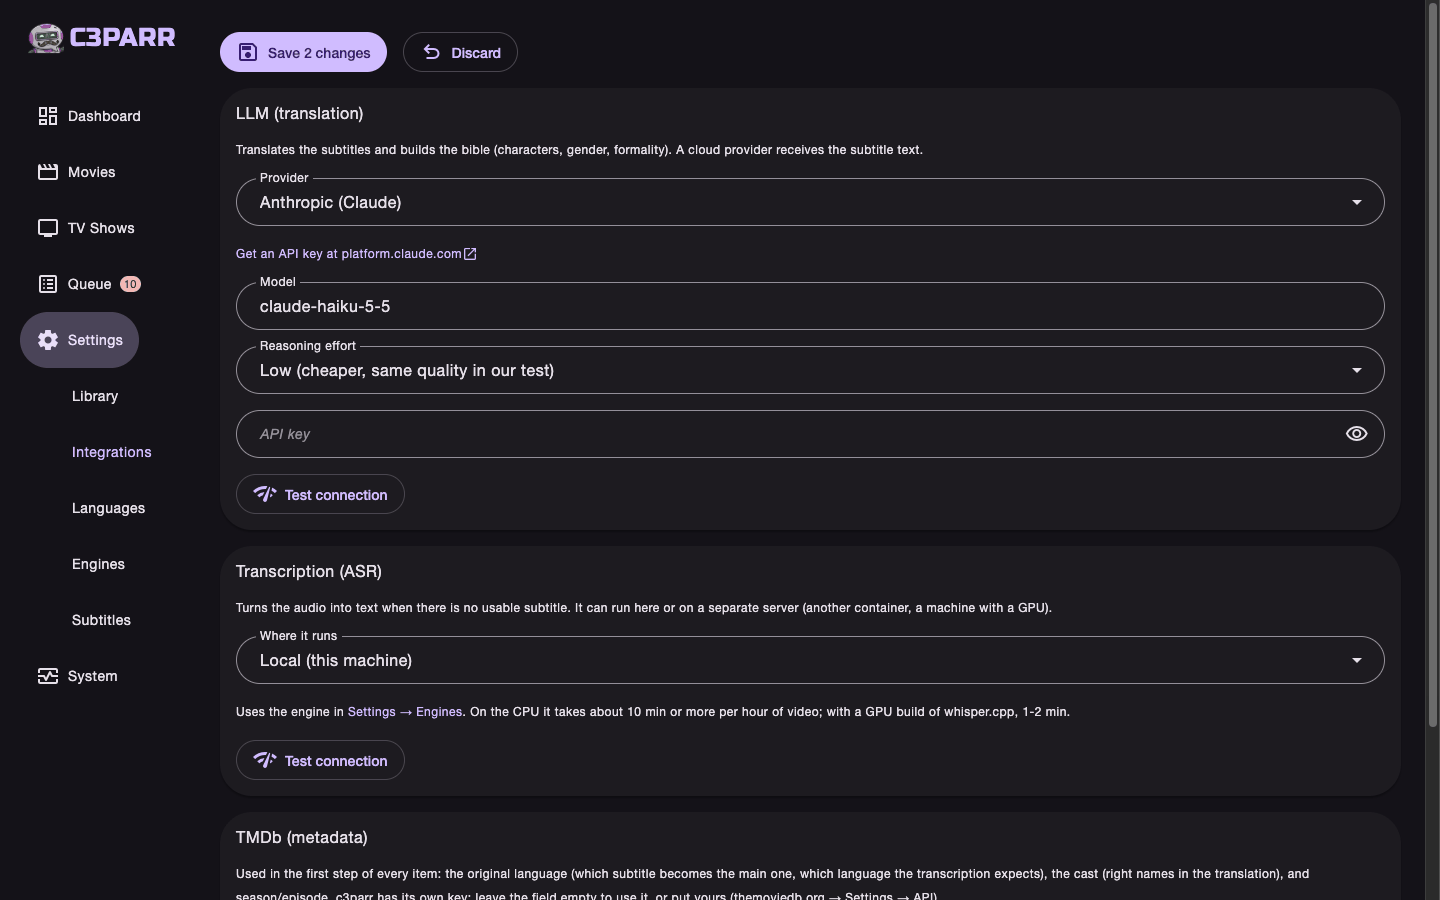
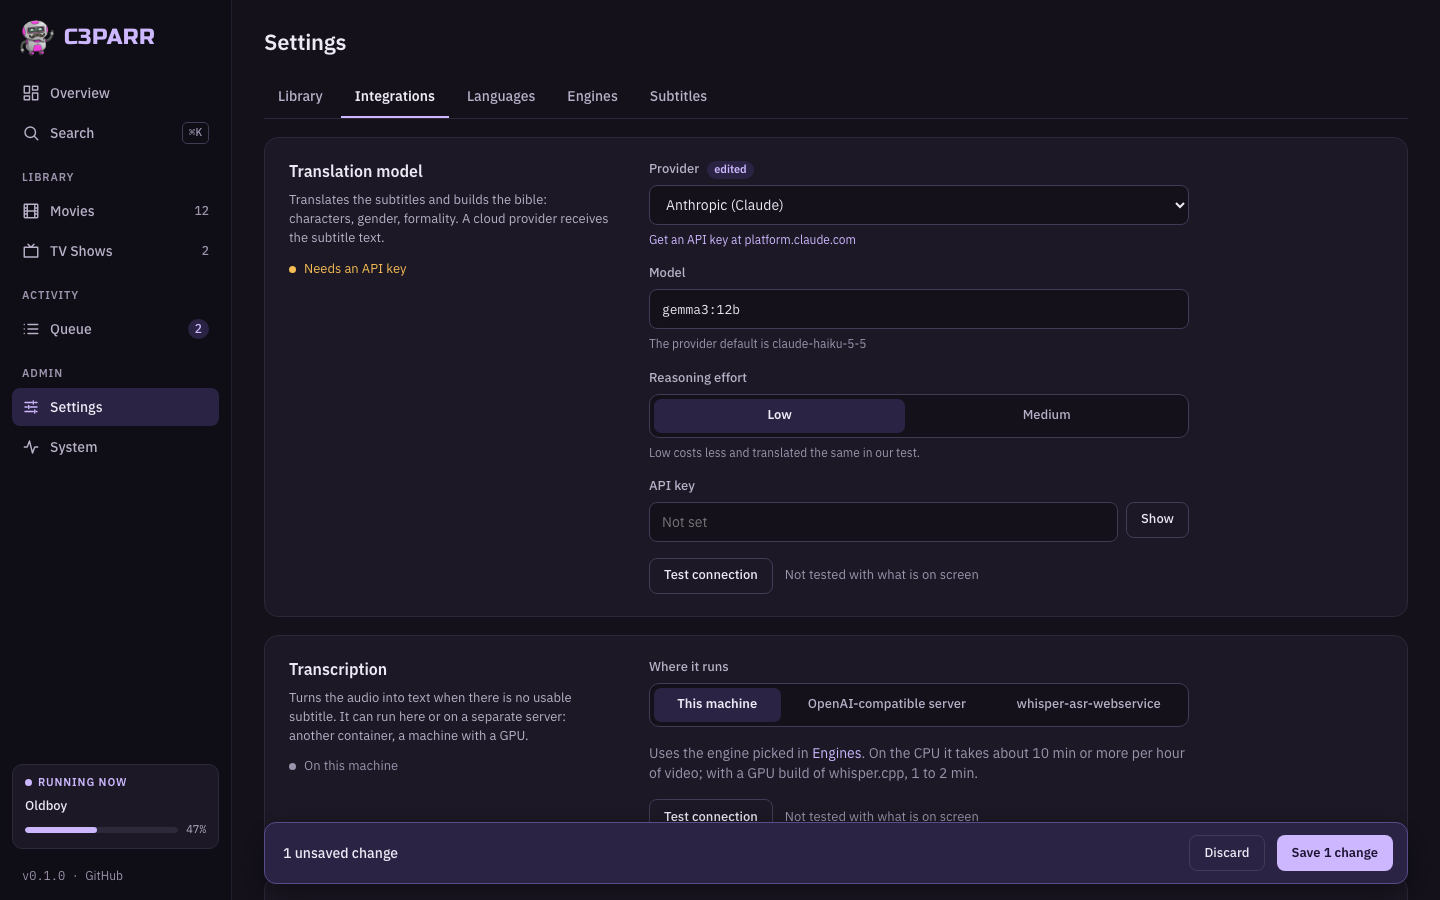
Ship the interface in the image, and the README with it
The Docker image builds the frontend in a Node stage (on the builder's own
architecture) and copies the result into the package; the runtime image
still has no Node. The image workflow now also runs when frontend/ changes.

The README setup steps use the new labels and screenshots (taken with an
example library), mention installing it as an app, and say how to build and
test the interface from source.

diff --git a/frontend/src/lib/format.ts b/frontend/src/lib/format.ts
@@ -90,8 +90,8 @@ export function jobName(job: { name: string; item: JobItem | null }): { title: s
 /** Cor do pôster de mentira: sempre a mesma para o mesmo título. */
 export function posterHue(title: string): number {
   let hash = 0
-  for (const char of title) hash = (hash * 31 + char.charCodeAt(0)) % 360
-  return hash
+  for (const char of title) hash = (hash * 31 + char.charCodeAt(0)) >>> 0
+  return Math.round((hash * 137.508) % 360) // o ângulo áureo espalha títulos parecidos
 }
 
 /** O que foi feito, em palavras: `Translated to pt-BR`, `Extracted en from the video`. */

diff --git a/README.md b/README.md
@@ -120,15 +120,15 @@ Both images also run without a GPU: whisper.cpp picks the fastest CPU code for t
 
 ## Setup, step by step
 
-The screenshots come from a real install next to Radarr, Sonarr, Bazarr and Jellyfin.
+The screenshots show the interface with an example library.
 
 ### 1. Connect Radarr
 
-**Settings → Library → Radarr.** Turn on **Enabled**, then fill in the address and port. On the same Docker network it is the container name (`radarr`, `7878`). Get the API key from Radarr → Settings → General. Leave **Path Mappings** empty when both see the media at the same path (`/data`).
+**Settings → Library → Radarr.** Turn on **Use Radarr**, then fill in the address and port. On the same Docker network it is the container name (`radarr`, `7878`). Get the API key from Radarr → Settings → General. Leave **Path mappings** empty when both see the media at the same path (`/data`).
 
 <img src="assets/screenshots/01-radarr.png" alt="Settings, Library, Radarr" width="800">
 
-**Test connection** answers with the Radarr version. After **Save**, the *Sync with Radarr* task reads the library right away and then every hour.
+**Test connection** answers next to the button with the Radarr version. A bar with **Save** shows up as soon as something changes; after saving, the *Sync with Radarr* task reads the library right away and then every hour.
 
 <img src="assets/screenshots/02-radarr-test.png" alt="Radarr connected" width="800">
 
@@ -140,7 +140,7 @@ The same on the **Sonarr** tab (`sonarr`, `8989`). Sonarr has two more filters: 
 
 ### 3. Pick the translator (LLM)
 
-**Settings → Integrations → LLM.** Use your own OpenAI-compatible server (llama.cpp, Ollama, vLLM) with its URL and model.
+**Settings → Integrations → Translation model.** Use your own OpenAI-compatible server (llama.cpp, Ollama, vLLM) with its URL and model.
 
 <img src="assets/screenshots/04-integrations-own-llm.png" alt="Own LLM server" width="800">
 
@@ -150,7 +150,7 @@ Or pick a cloud provider. The model in use is filled in, the link points to wher
 
 ### 4. Pick where the transcription runs
 
-**Settings → Integrations → Transcription.** It is only used when an item has no usable subtitle at all. **Local** runs whisper.cpp in the container. A **separate server** (another machine with a GPU) works through an OpenAI-compatible API or a whisper-asr-webservice like Bazarr's. TMDb needs nothing: c3parr has its own key.
+**Settings → Integrations → Transcription.** It is only used when an item has no usable subtitle at all. **This machine** runs whisper.cpp in the container. A **separate server** (another machine with a GPU) works through an OpenAI-compatible API or a whisper-asr-webservice like Bazarr's. TMDb needs nothing: c3parr has its own key.
 
 <img src="assets/screenshots/08-asr-server.png" alt="Transcription on a separate server" width="800">
 
@@ -168,18 +168,26 @@ Or pick a cloud provider. The model in use is filled in, the link points to wher
 
 ### 7. Watch it work
 
-Each episode shows the subtitles it has. **Add to queue** sends it ahead of the hourly routine.
+**Movies** and **TV Shows** show each item with the subtitles it has: inside the video, from another source, made by c3parr, or missing. The button on an item that misses one (**Make pt-BR**) sends it ahead of the hourly routine.
+
+<img src="assets/screenshots/18-movies.png" alt="Movies with the subtitles each one has" width="800">
+
+A show opens the seasons that still have work to do.
 
 <img src="assets/screenshots/14-series.png" alt="A series with its subtitle languages" width="800">
 
-The queue shows each step live: here the English subtitle was extracted from the video and is being translated to pt-BR, block by block.
+The queue shows what runs now, what comes next in the order it will run, and what finished. Here a movie is being translated to pt-BR, block by block.
 
 <img src="assets/screenshots/15-queue.png" alt="The queue translating an episode" width="800">
 
-**System → Tasks** lists the routines: the Radarr and Sonarr syncs and the run that decides what each item is missing. The **Dashboard** sums it all up.
+**System → Tasks** lists the routines: the Radarr and Sonarr syncs and the run that decides what each item is missing. The **Overview** sums it all up.
 
 <img src="assets/screenshots/16-tasks.png" alt="System, Tasks" width="800">
-<img src="assets/screenshots/09-dashboard.png" alt="Dashboard" width="800">
+<img src="assets/screenshots/09-dashboard.png" alt="Overview" width="800">
+
+### Install it as an app
+
+The interface is a PWA: on a phone or a desktop browser, use *Install* (Chrome, Edge) or *Add to Home Screen* (Safari). Browsers only offer it over HTTPS, so put c3parr behind your reverse proxy with a certificate.
 
 ## Extra: transcription on another machine
 
@@ -237,7 +245,7 @@ Only needed when c3parr runs on a small box: if its machine already has a good G
    curl http://<gpu-machine>:9000/v1/audio/transcriptions -F file=@sample.wav
    ```
 
-4. In c3parr, **Settings → Integrations → Transcription**: **Where it runs** = *Server: OpenAI-compatible*, **Server URL** = `http://<gpu-machine>:9000/v1`, **Model** empty (the server uses the model it started with). **Test connection**, then **Save**. The next transcription in the queue goes to the server.
+4. In c3parr, **Settings → Integrations → Transcription**: **Where it runs** = *OpenAI-compatible server*, **Server URL** = `http://<gpu-machine>:9000/v1`, **Model** empty (the server uses the model it started with). **Test connection**, then **Save**. The next transcription in the queue goes to the server.
 
 <img src="assets/screenshots/17-asr-remote-connected.png" alt="Transcription pointing at a whisper server on another machine" width="800">
 
@@ -249,6 +257,27 @@ uv run pytest                 # tests (no models, no network)
 uv run ruff check . && uv run mypy src
 uv run c3parr-web             # http://127.0.0.1:8484
 ```
+
+The interface lives in `frontend/` (React, Vite, TypeScript) and talks to the JSON API under `/api/v1` (contract at `/api/docs`). The Docker image builds it; from source, build it once and `c3parr-web` serves it:
+
+```bash
+cd frontend
+npm ci
+npm run build                 # into src/c3parr/web/dist, served by c3parr-web
+npm run dev                   # or: hot reload on :5173, talking to c3parr-web on :8484
+npm run typecheck && npm run lint && npm test
+```
+
+Browser tests drive the built interface against an example library:
+
+```bash
+uv run playwright install chromium   # once
+uv run pytest -m e2e tests/e2e/test_spa.py
+```
+
+The TypeScript types in `frontend/src/api/types.ts` come from the API contract. After changing `src/c3parr/web/schemas.py`, write them again with `C3PARR_UPDATE_GOLDEN=1 uv run pytest tests/test_frontend_types.py`.
+
+Without the build, `c3parr-web` falls back to the previous HTML pages; `C3PARR_UI=legacy` forces them.
 
 For local transcription install whisper.cpp (`brew install whisper.cpp` on a Mac, with Metal).
 
